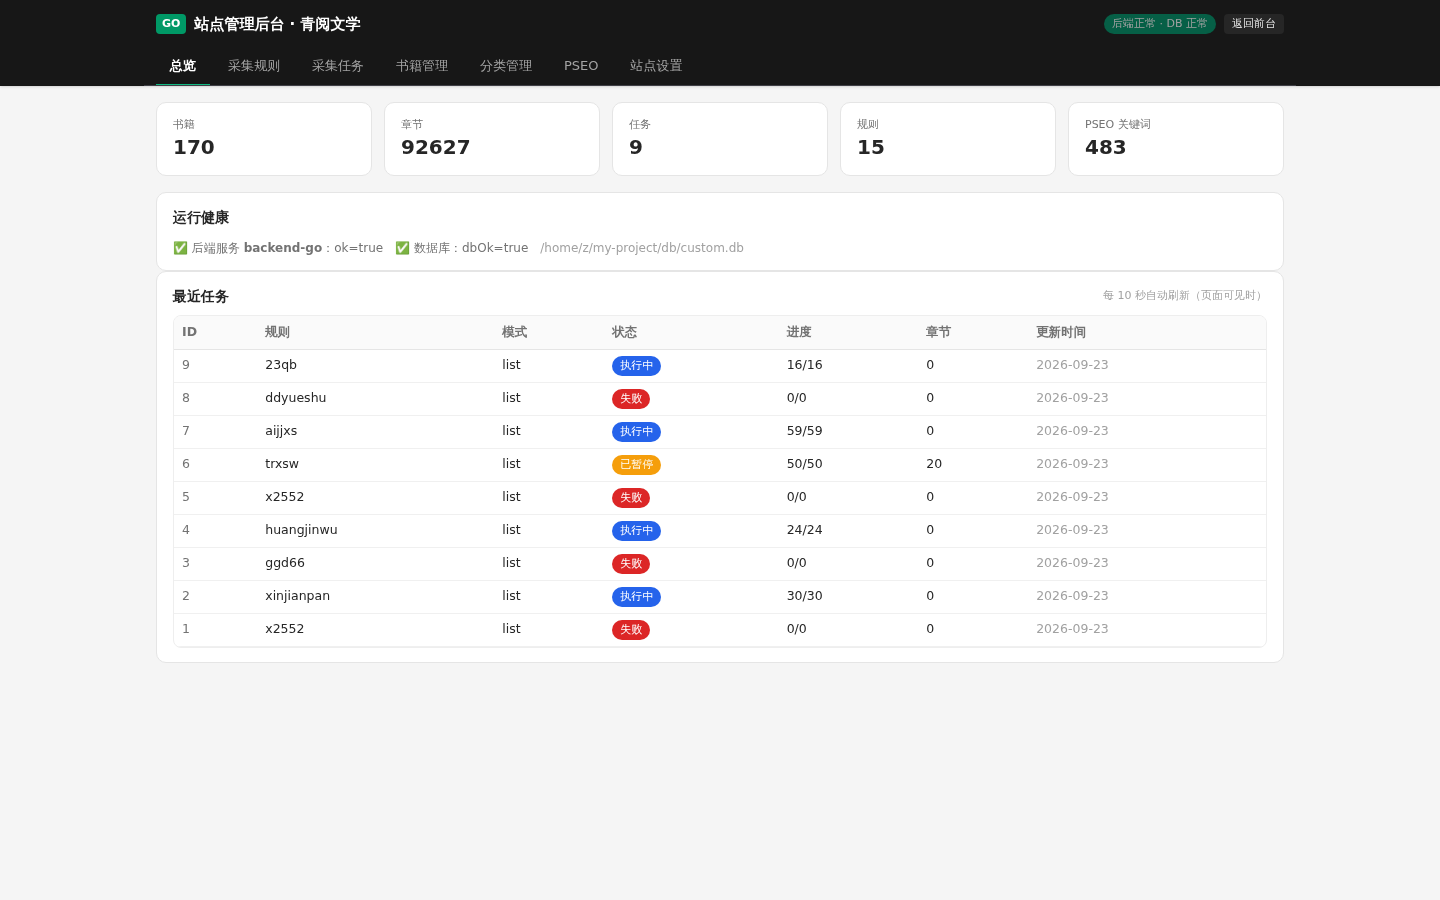
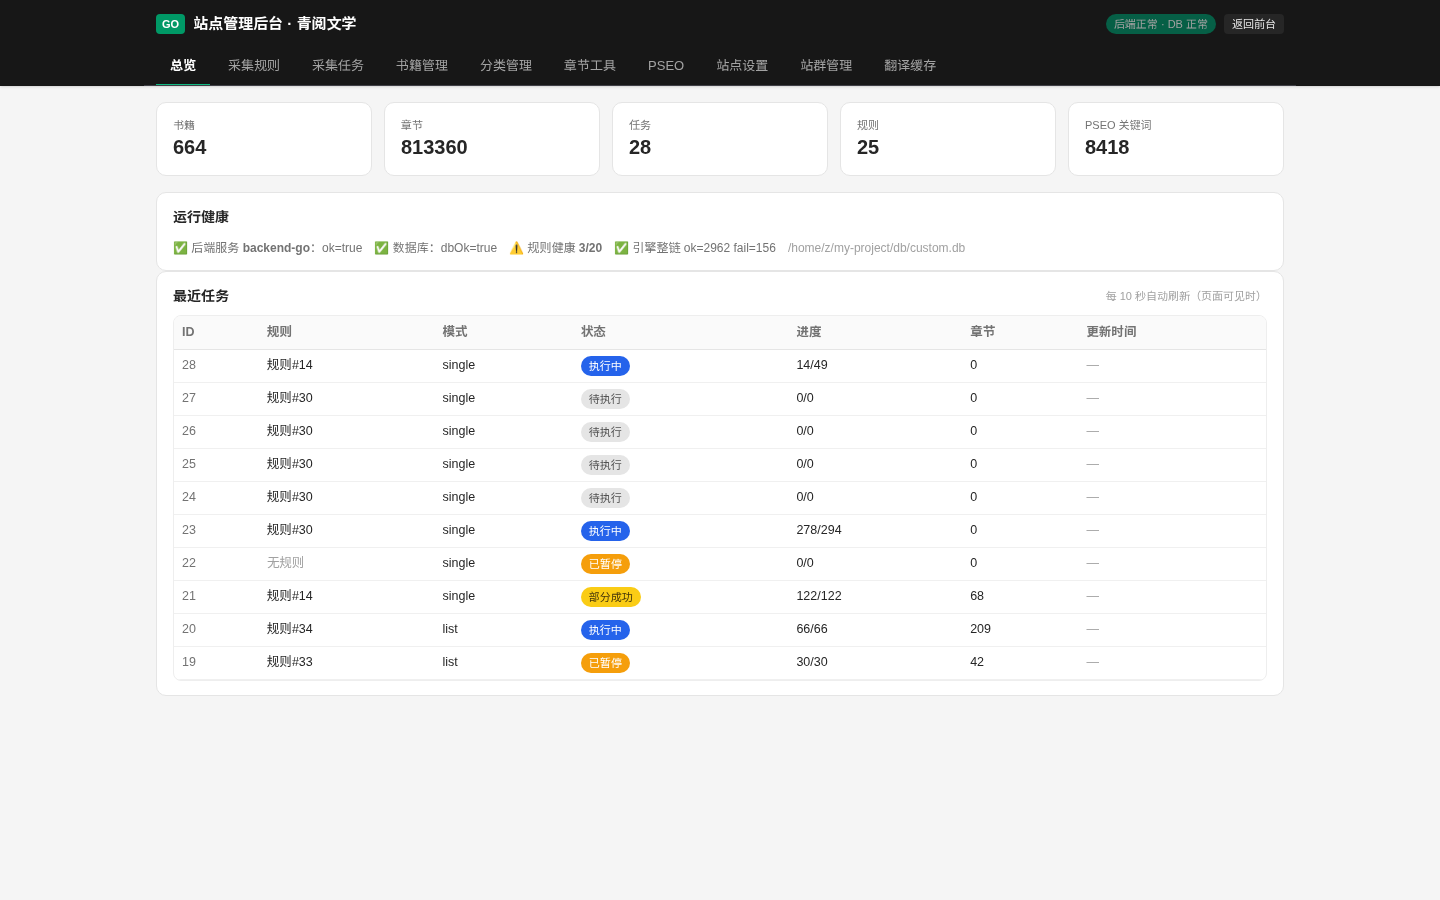
README: 项目主页文档落地——纯 Go 全栈架构总览/核心特性/12 张页面截图矩阵（jiuxiaozw 主题桌面+移动+阅读器双模式+后台四板块，agent-browser 实截）/一键安装命令/目录结构/技术要点/文档索引/免责声明

diff --git a/README.md b/README.md
@@ -1,0 +1,151 @@
+# novel-admin
+
+**纯 Go 全栈小说管理后台** —— 内容采集（反反爬）、前台展示（1:1 复刻主题）、后台管理、翻译通道四合一。零 Node/TS 运行时依赖，双 Go 进程 + 两个 Bun/Python 侧车即可跑通全部能力。
+
+<p align="center">
+  <img src="docs/images/home-desktop.png" width="720" alt="前台首页（jiuxiaozw 主题）">
+</p>
+
+---
+
+## 架构总览
+
+| 服务 | 端口 | 运行时 | 职责 |
+|---|---|---|---|
+| **backend-go** | 3000 | Go 1.22 | 页面 SSR + 业务 API + 采集 runner + 空库自动播种（四合一单进程） |
+| **scraper-go** | 3030 | Go 1.22 | 反反爬采集引擎（多策略链 / 域槽限速 / 车道并发） |
+| **stealth-service** | 3031 | Python | 反检测侧车（cloakbrowser 隐身浏览器 + iv8 过盾） |
+| **translate-service** | 3032 | Bun | 翻译服务（OpenCC 简繁即时 + LLM 英/日/韩按需） |
+
+```
+┌────────────── 浏览者 ──────────────┐
+│  前台 jiuxiaozw 主题（SSR）         │
+│  首页/列表/书籍页/分页阅读器         │
+└──────────────┬─────────────────────┘
+               │ :3000
+┌──────────────▼─────────────────────┐   ┌────────────────────┐
+│           backend-go               │──▶│ translate-service  │
+│  SSR · API · runner · 播种          │   │ OpenCC + LLM 缓存   │
+│  SQLite (modernc.org/sqlite 纯 Go) │   └────────────────────┘
+└──────────────┬─────────────────────┐   ┌────────────────────┐
+               │ :3030                ──▶│ stealth-service    │
+┌──────────────▼─────────────────────┐   │ cloakbrowser + iv8 │
+│           scraper-go               │   └────────────────────┘
+│  策略链 fetch 直连/browser/cloak    │
+│  域槽限速 · 车道并发 · 高水位记忆     │
+└────────────────────────────────────┘
+```
+
+## 核心特性
+
+### 前台（1:1 复刻主题 `jiuxiaozw`）
+- **分页阅读器**：CSS columns + translateX 与原站同机制，四向滑动翻页 + 页面预览影子层
+- **双模式**：后台 `readerMode` 设置——`auto`（PC 全文滚动 / 触屏分页）、`scroll`、`page` 三态
+- **阅读器设置面板**：字号 / 行距 / 纸色（米色 / 白纸 / 护眼 / 夜间），变量口径与原站一致
+- **断点续读**：书页 CTA 自动升级「继续阅读」并直指上次章节；章内页码 + 书级进度双持久化
+- **响应式**：移动端悬浮工具栏 / 热区 / 手势，桌面端滚动模式 + 键盘章导航
+
+### 采集引擎（scraper-go）
+- **策略链**：fetch 直连 → cloaked 浏览器 → stealth 过盾，逐站自适应
+- **域槽限速**：每主机 ≥1.2s 间隔 + 出口池轮换，防封优先
+- **车道并发**：AIMD 爬坡 + 软起步 + **高水位记忆**（健康宽度跨重启复用，免重爬坡）
+- **目录完整性**：chapterListApi HTTP/2 强制升级 + JS cookie 挑战兜底 + 骨架词面折叠防重复
+- **规则健康巡检**：失败连计/自动停用/notes 死亡定性留档
+
+### 翻译（纯后台通道）
+- 采集期自动预热 zh-Hant/zh-HK（OpenCC 零成本）；en/ja/ko LLM 按需 + 持久缓存
+- TXT 译文导出：`POST /api/novels/:id/export-txt?lang=zh-Hant`
+- 管理端：缓存总览 / 按书预热 / 清理 / 归属统计（前台阅读页无翻译入口）
+
+### 管理后台
+- 采集规则 / 任务 fleet / 书籍分类章节 / PSEO / 站点设置 / 站群管理 / 翻译缓存九大板块
+
+## 页面截图
+
+| 前台 · 桌面 | 前台 · 移动 |
+|---|---|
+| ![首页](docs/images/home-desktop.png) | ![移动首页](docs/images/home-mobile.png) |
+| ![列表页](docs/images/list-hot.png) | ![书籍详情](docs/images/book-desktop.png) |
+
+| 阅读器 · PC 全文滚动 | 阅读器 · 移动分页 |
+|---|---|
+| ![PC 阅读](docs/images/chapter-pc.png) | ![移动阅读](docs/images/chapter-mobile.png) |
+
+| 设置面板（字号/行距/纸色） | 管理后台总览 |
+|---|---|
+| ![设置面板](docs/images/chapter-pc-panel.png) | ![后台总览](docs/images/admin-overview.png) |
+
+| 采集规则 | 采集任务 fleet |
+|---|---|
+| ![采集规则](docs/images/admin-rules.png) | ![采集任务](docs/images/admin-tasks.png) |
+
+| 翻译缓存 | 站点设置 |
+|---|---|
+| ![翻译缓存](docs/images/admin-translate.png) | ![站点设置](docs/images/admin-settings.png) |
+
+## 快速开始
+
+国内服务器一键安装（阿里镜像加速，预构建二进制快速路径）：
+
+```bash
+bash -c "$(curl -fsSL https://ghfast.top/https://raw.githubusercontent.com/u4399com-beep/novel-admin-1.0.0/main/scripts/bootstrap-cn.sh)"
+```
+
+或指定安装目录：
+
+```bash
+BOOTSTRAP_TARGET=/opt/novel-admin bash -c "$(curl -fsSL https://ghfast.top/https://raw.githubusercontent.com/u4399com-beep/novel-admin-1.0.0/main/scripts/bootstrap-cn.sh)"
+```
+
+安装完成后访问 `http://<服务器IP>:3000` 打开前台，`/admin` 进入管理后台。
+
+### 手动构建
+
+```bash
+# 依赖：Go 1.22+（运行时）；bun（translate-service）；python3（stealth-service，可选）
+scripts/build-go.sh          # 编译双 Go 进程
+mini-services/backend-go/run.sh    # 启动 backend（:3000）
+mini-services/scraper-go/run.sh     # 启动采集引擎（:3030）
+mini-services/stealth-service/run.sh    # 启动反检测侧车（:3031，可选）
+mini-services/translate-service/run.sh  # 启动翻译服务（:3032）
+```
+
+## 目录结构
+
+```
+├── mini-services/
+│   ├── backend-go/          # 主服务（SSR/API/runner/播种）
+│   │   ├── web/templates/   # 各主题模板（jiuxiaozw 为 1:1 复刻主题）
+│   │   ├── web/static/      # 主题 CSS/JS
+│   │   └── bin/             # 预构建二进制
+│   ├── scraper-go/          # 采集引擎
+│   ├── stealth-service/     # cloakbrowser/iv8 反检测侧车
+│   └── translate-service/   # OpenCC + LLM 翻译
+├── scripts/                 # 构建/部署/守护脚本
+├── docs/                    # 部署/运维/规则/反反爬文档
+│   ├── images/              # 页面截图（本 README 引用）
+│   └── deployment.md        # 零基础图文部署教程
+└── db/                      # SQLite 数据库（运行时生成）
+```
+
+## 技术要点
+
+- **SQLite 纯 Go 驱动**（modernc.org/sqlite）：零 CGO，交叉编译友好，单文件部署
+- **模板运行时加载**：主题模板/静态资源磁盘直读，改样式无需重编译
+- **幂等加列**：schema 变更通过 ensureColumn 自动补齐，存量库无损升级
+- **原子落盘**：车道地板/高水位等热缓存 tmp+rename 原子写，重启恢复链完整
+- **质量闸**：`go test ./...` 全量回归 + `gofmt/vet/staticcheck` 零输出 + 浏览器 E2E
+
+## 文档索引
+
+| 文档 | 内容 |
+|---|---|
+| [docs/deployment.md](docs/deployment.md) | 零基础图文部署教程（从装系统开始） |
+| [docs/anti-anti-crawl.md](docs/anti-anti-crawl.md) | 反反爬体系说明 |
+| [docs/scrape-rules.md](docs/scrape-rules.md) | 采集规则字段与形态 |
+| [docs/operations-readiness.md](docs/operations-readiness.md) | 运维就绪手册 |
+| [docs/recovery-playbook.md](docs/recovery-playbook.md) | 故障恢复手册 |
+
+## 免责声明
+
+本项目为**演示/学习用途**。前台展示的内容来自公开互联网采集，版权归原站及原作者所有；示例站点标注「演示站点，全部内容为原创占位数据」。请勿将本项目用于商业用途，下载后请在 24 小时内自行评估保留必要性。
